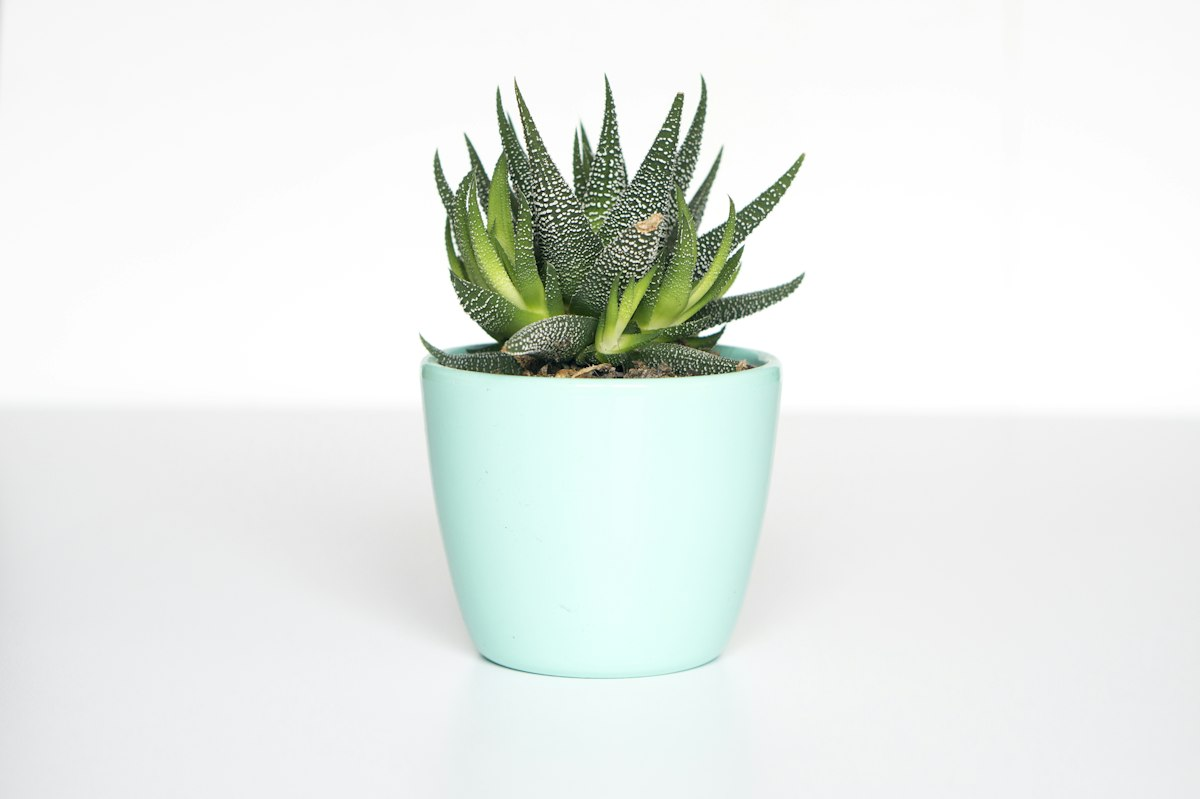
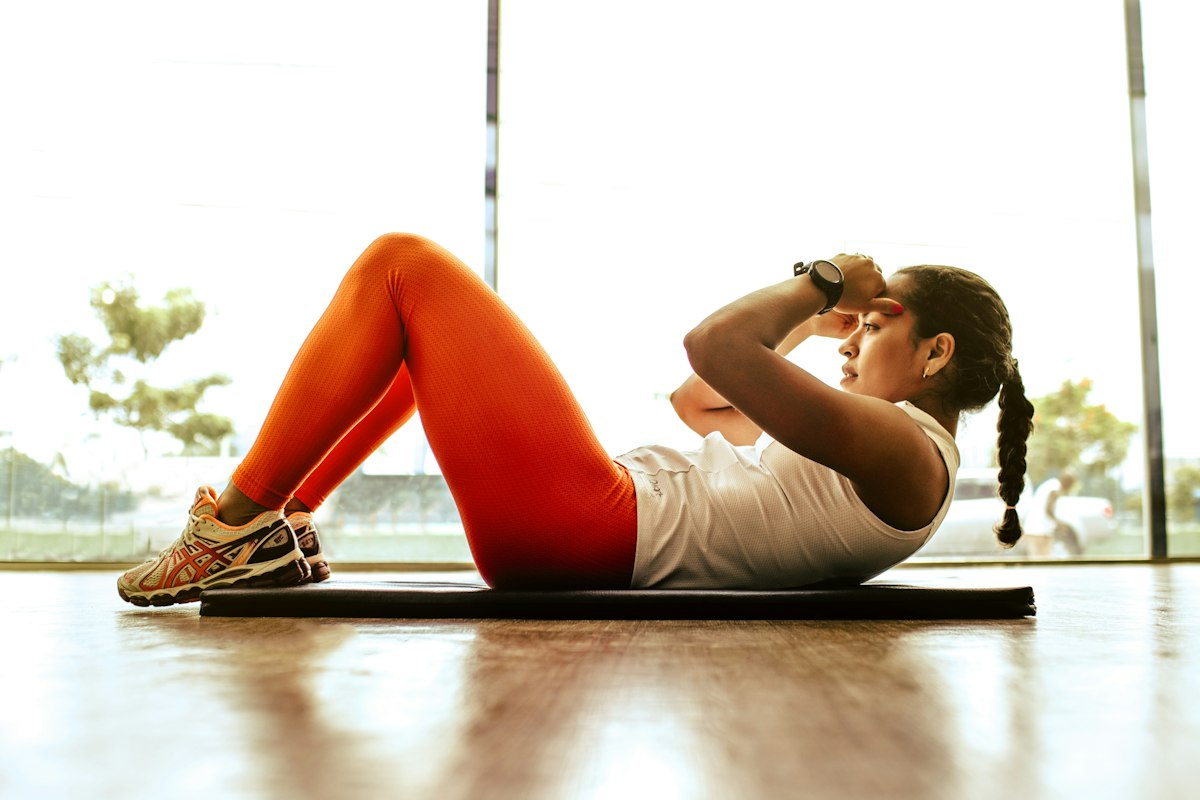
Adapta la landing al producto MOVE con su identidad de marca

diff --git a/index.html b/index.html
@@ -1,18 +1,22 @@
 <!DOCTYPE html>
 <!--
-  Producto/servicio: Riega — app que te recuerda cuándo regar cada una de tus plantas.
-  A quién va dirigido (público objetivo): personas que viven en departamento y tienen plantas
-    en casa, pero olvidan regarlas o no saben cuánta agua necesita cada especie.
-  Propuesta de valor en 1 línea: Tus plantas vivas y felices con recordatorios de riego
-    personalizados para cada especie.
+  Producto/servicio: MOVE — app personal de nutrición, actividad, fuerza y progreso corporal (web + PWA).
+  A quién va dirigido (público objetivo): personas adultas que entrenan o quieren cuidar su
+    alimentación y prefieren entender sus datos antes que seguir dietas rígidas.
+  Propuesta de valor en 1 línea: Todo tu progreso —comida, movimiento y fuerza— en un solo lugar,
+    explicado sin juicios.
 -->
 <html lang="es">
 <head>
   <meta charset="UTF-8">
   <meta name="viewport" content="width=device-width, initial-scale=1.0">
-  <meta name="description" content="Riega: la app que te recuerda cuándo y cuánto regar cada una de tus plantas.">
-  <title>Riega — Recordatorios de riego para tus plantas</title>
-  <link rel="icon" href="img/favicon.svg" type="image/svg+xml">
+  <meta name="description" content="MOVE: registra tu alimentación, actividad y fuerza en un solo lugar y entiende tu progreso sin juicios.">
+  <title>MOVE — Nutrición, actividad y fuerza en un solo lugar</title>
+  <link rel="icon" href="img/favicon.png" type="image/png">
+  <link rel="apple-touch-icon" href="img/favicon.png">
+  <link rel="preconnect" href="https://fonts.googleapis.com">
+  <link rel="preconnect" href="https://fonts.gstatic.com" crossorigin>
+  <link href="https://fonts.googleapis.com/css2?family=Manrope:wght@400;600;700;800&display=swap" rel="stylesheet">
   <link rel="stylesheet" href="css/styles.css">
 </head>
 <body>
@@ -20,9 +24,8 @@
   <a class="skip-link" href="#contenido">Saltar al contenido principal</a>
 
   <header class="site-header">
-    <a href="#hero" class="logo" aria-label="Riega, ir al inicio">
-      <img src="img/favicon.svg" alt="" width="32" height="32">
-      <span>Riega</span>
+    <a href="#hero" class="logo">
+      <img src="img/wordmark.svg" alt="MOVE, ir al inicio" width="104" height="24">
     </a>
     <nav aria-label="Navegación principal">
       <ul>
@@ -40,29 +43,34 @@
   <main id="contenido">
     <section id="hero" class="hero" aria-labelledby="hero-title">
       <div class="hero-text">
-        <h1 id="hero-title">Riega</h1>
-        <p>Tus plantas vivas y felices con recordatorios de riego personalizados para cada especie.</p>
-        <a href="#contacto" class="btn">Quiero probar Riega</a>
+        <p class="eyebrow">Energía · Enfoque · Progreso</p>
+        <h1 id="hero-title">Tu progreso, en movimiento</h1>
+        <p>Registra lo que comes, cómo te mueves y cuánto levantas. MOVE junta todo en un solo lugar y te ayuda a entenderlo, sin juicios.</p>
+        <a href="#contacto" class="btn">Quiero probar MOVE</a>
       </div>
       <img src="img/hero.jpg"
-           alt="Varias plantas de interior en macetas junto a una ventana luminosa"
-           width="1200" height="799">
+           alt="Mujer con leggings naranjas haciendo abdominales sobre una colchoneta junto a un ventanal"
+           width="1200" height="800">
     </section>
 
     <section id="producto" aria-labelledby="producto-title">
       <h2 id="producto-title">Características</h2>
       <ul class="features">
         <li>
-          <h3>Recordatorios inteligentes</h3>
-          <p>Te avisamos el día exacto en que cada planta necesita agua, según su especie y la estación.</p>
+          <h3>Nutrición completa</h3>
+          <p>Calorías, macros y micronutrientes. Busca alimentos, escanea códigos de barras, guarda recetas y planifica tus comidas.</p>
         </li>
         <li>
-          <h3>Catálogo de más de 300 especies</h3>
-          <p>Busca tu planta por nombre o foto y recibe su guía de luz, riego y abono.</p>
+          <h3>Actividad diaria</h3>
+          <p>Pasos, caminatas y running en el mismo lugar que tu alimentación, para ver cómo se relacionan.</p>
         </li>
         <li>
-          <h3>Modo vacaciones</h3>
-          <p>Comparte tu jardín con un amigo para que reciba los recordatorios mientras viajas.</p>
+          <h3>Entrenamiento de fuerza</h3>
+          <p>Crea rutinas, registra series, kilos y RIR, y detecta tus récords personales automáticamente.</p>
+        </li>
+        <li>
+          <h3>Progreso explicado</h3>
+          <p>Peso, medidas y tendencias con objetivos que se ajustan a tus datos reales. Estimaciones claras, nunca puntajes.</p>
         </li>
       </ul>
     </section>
@@ -70,16 +78,20 @@
     <section id="faq" aria-labelledby="faq-title">
       <h2 id="faq-title">Preguntas frecuentes</h2>
       <details>
-        <summary>¿Riega es gratis?</summary>
-        <p>Sí. Puedes registrar hasta 10 plantas gratis. El plan Premium desbloquea plantas ilimitadas y el modo vacaciones.</p>
+        <summary>¿Necesito instalar algo?</summary>
+        <p>No. MOVE funciona en el navegador de tu celular o computadora, y puedes agregarla a tu pantalla de inicio como una app.</p>
       </details>
       <details>
-        <summary>¿Funciona en iPhone y Android?</summary>
-        <p>Sí, Riega está disponible para iOS y Android, y también puedes usarla desde el navegador.</p>
+        <summary>¿Funciona sin internet?</summary>
+        <p>Sí. Puedes registrar tus comidas y entrenamientos sin conexión; se sincronizan cuando vuelves a estar en línea.</p>
       </details>
       <details>
-        <summary>¿Qué pasa si mi planta no está en el catálogo?</summary>
-        <p>Puedes crear una planta personalizada indicando cada cuántos días quieres regarla.</p>
+        <summary>¿MOVE me va a decir que "fallé" un día?</summary>
+        <p>Nunca. MOVE registra y te da contexto: no usa puntajes, rachas obligatorias ni lenguaje de culpa.</p>
+      </details>
+      <details>
+        <summary>¿Mis datos son privados?</summary>
+        <p>Sí. Solo tú puedes ver tus registros, y puedes exportarlos o borrar tu cuenta cuando quieras.</p>
       </details>
     </section>
 
@@ -108,7 +120,8 @@
   </main>
 
   <footer class="site-footer">
-    <p>Contacto: <a href="mailto:hola@riega.app">hola@riega.app</a></p>
+    <img src="img/isotipo-m.svg" alt="" class="footer-mark" width="48" height="29">
+    <p>Contacto: <a href="mailto:hola@moveapp.com">hola@moveapp.com</a></p>
     <ul class="social" aria-label="Redes sociales">
       <li>
         <a href="#" aria-label="Síguenos en Facebook">
@@ -131,7 +144,7 @@
         </a>
       </li>
     </ul>
-    <p><small>&copy; 2026 Riega. Proyecto educativo.</small></p>
+    <p><small>&copy; 2026 MOVE. Movement builds what's next.</small></p>
   </footer>
 
   <script src="js/theme.js"></script>

diff --git a/css/styles.css b/css/styles.css
@@ -1,24 +1,29 @@
-/* Variables de color (Logro 1: modo oscuro) */
+/* Paleta de marca MOVE + variables de color (Logro 1: modo oscuro) */
 :root {
-  --bg-color: #f7faf7;
+  --orange: #ff7a2e;
+  --lavender: #a78bfa;
+  --cream: #f6e7d9;
+  --bg-color: #f7f6f3;
   --surface-color: #ffffff;
-  --text-color: #1b2a22;
-  --muted-color: #4a5a51;
-  --accent-color: #1f7a4d;
-  --accent-text: #ffffff;
-  --border-color: #d5e2d9;
-  --focus-color: #c2410c;
+  --text-color: #171717;
+  --muted-color: #5c5c5c;
+  --link-color: #b8490c;
+  --accent-color: var(--orange);
+  --accent-text: #171717;
+  --border-color: #e8e6e2;
+  --focus-color: #6d28d9;
+  --logo-filter: none;
 }
 
 :root[data-theme="dark"] {
-  --bg-color: #111a15;
-  --surface-color: #1a261f;
-  --text-color: #e8f1eb;
-  --muted-color: #b3c4ba;
-  --accent-color: #5fd39a;
-  --accent-text: #0b1a12;
-  --border-color: #2e4337;
-  --focus-color: #fbbf24;
+  --bg-color: #171717;
+  --surface-color: #222222;
+  --text-color: #f7f6f3;
+  --muted-color: #b5b5b5;
+  --link-color: #ff9a5c;
+  --border-color: #3a3a3a;
+  --focus-color: #c4b5fd;
+  --logo-filter: invert(1);
 }
 
 * {
@@ -27,7 +32,7 @@
 
 body {
   margin: 0;
-  font-family: system-ui, -apple-system, "Segoe UI", Roboto, sans-serif;
+  font-family: "Manrope", system-ui, -apple-system, "Segoe UI", sans-serif;
   line-height: 1.6;
   background: var(--bg-color);
   color: var(--text-color);
@@ -40,7 +45,7 @@ img {
 }
 
 a {
-  color: var(--accent-color);
+  color: var(--link-color);
 }
 
 /* Foco visible para navegación con teclado */
@@ -77,12 +82,11 @@ a {
 
 .logo {
   display: flex;
-  align-items: center;
-  gap: 0.5rem;
-  font-weight: 700;
-  font-size: 1.25rem;
-  color: var(--text-color);
-  text-decoration: none;
+}
+
+.logo img,
+.footer-mark {
+  filter: var(--logo-filter);
 }
 
 .site-header nav ul {
@@ -103,7 +107,7 @@ a {
 
 /* Logro 2: resaltar enlaces al pasar el mouse */
 .site-header nav a:hover {
-  color: var(--accent-color);
+  color: var(--link-color);
   border-bottom-color: var(--accent-color);
 }
 
@@ -129,26 +133,46 @@ main section {
   padding: 3rem 1.5rem;
 }
 
-.hero {
+/* El degradado naranja-lavanda de la marca solo se usa en el hero */
+main .hero {
   display: grid;
   grid-template-columns: 1fr 1fr;
   align-items: center;
   gap: 2rem;
+  width: calc(100% - 2rem);
+  margin: 2rem auto 0;
+  padding: 3rem 2rem;
+  border-radius: 24px;
+  background: var(--cream) url("../img/gradient-wide.webp") center / cover no-repeat;
+  color: #171717;
+}
+
+.eyebrow {
+  margin: 0 0 0.5rem;
+  font-size: 0.8rem;
+  font-weight: 600;
+  letter-spacing: 0.2em;
+  text-transform: uppercase;
 }
 
 .hero h1 {
-  font-size: clamp(2.5rem, 6vw, 4rem);
+  font-size: clamp(2.25rem, 5vw, 3.5rem);
+  font-weight: 800;
+  line-height: 1.1;
   margin: 0;
-  color: var(--accent-color);
 }
 
 .hero p {
-  font-size: 1.2rem;
-  color: var(--muted-color);
+  font-size: 1.15rem;
+}
+
+.hero .btn {
+  background: #171717;
+  color: #ffffff;
 }
 
 .hero img {
-  border-radius: 1rem;
+  border-radius: 20px;
 }
 
 /* Logro 2: transiciones en botones */
@@ -158,7 +182,7 @@ main section {
   font-weight: 600;
   padding: 0.75rem 1.5rem;
   border: none;
-  border-radius: 0.5rem;
+  border-radius: 999px;
   background: var(--accent-color);
   color: var(--accent-text);
   text-decoration: none;
@@ -187,7 +211,12 @@ main section {
   padding: 1.5rem;
   background: var(--surface-color);
   border: 1px solid var(--border-color);
-  border-radius: 1rem;
+  border-top: 4px solid var(--accent-color);
+  border-radius: 20px;
+}
+
+.features li:nth-child(even) {
+  border-top-color: var(--lavender);
 }
 
 .features h3 {
@@ -245,6 +274,11 @@ summary {
   border-top: 1px solid var(--border-color);
 }
 
+.footer-mark {
+  width: 48px;
+  height: auto;
+}
+
 .social {
   display: flex;
   justify-content: center;
@@ -272,7 +306,7 @@ summary {
 }
 
 @media (max-width: 700px) {
-  .hero {
+  main .hero {
     grid-template-columns: 1fr;
   }
 }

diff --git a/README.md b/README.md
@@ -1,9 +1,9 @@
-# Riega — Landing Page
+# MOVE — Landing Page
 
-Landing page de **Riega**, una app (ficticia) que te recuerda cuándo y cuánto regar cada una de tus plantas.
+Landing page de **MOVE**, una app personal de nutrición, actividad, fuerza y progreso corporal (web + PWA).
 
-- **Público objetivo:** personas que viven en departamento, tienen plantas en casa y olvidan regarlas.
-- **Propuesta de valor:** tus plantas vivas y felices con recordatorios de riego personalizados para cada especie.
+- **Público objetivo:** personas adultas que entrenan o quieren cuidar su alimentación y prefieren entender sus datos antes que seguir dietas rígidas.
+- **Propuesta de valor:** todo tu progreso —comida, movimiento y fuerza— en un solo lugar, explicado sin juicios.
 
 ## Laboratorio 01 — HTML5 semántico, accesibilidad y formularios
 
@@ -15,6 +15,11 @@ Landing page de **Riega**, una app (ficticia) que te recuerda cuándo y cuánto 
 - Retos: favicon, sección de Preguntas Frecuentes, 4.º icono (TikTok), campo `select`.
 - Logros extra: modo oscuro con variables CSS y microinteracciones en botones y enlaces.
 - Enlace "Saltar al contenido" y foco visible para navegación con teclado.
+
+## Identidad visual
+
+Paleta de marca: naranja `#FF7A2E`, lavanda `#A78BFA`, crema `#F6E7D9`, negro `#171717`, blanco `#FFFFFF`.
+Tipografía: Manrope. El degradado naranja-lavanda se reserva para el hero.
 
 ## Estructura
 
@@ -29,5 +34,6 @@ product-landing-page/
 
 ## Créditos
 
-- Foto del hero: [Unsplash](https://unsplash.com/) (foto `photo-1485955900006-10f4d324d411`) (licencia Unsplash).
+- Foto del hero: [Unsplash](https://unsplash.com/) (foto `photo-1571019613454-1cb2f99b2d8b`, licencia Unsplash).
 - Iconos de redes: [Simple Icons](https://simpleicons.org/) (CC0).
+- Logo, isotipo y degradado: marca MOVE.
